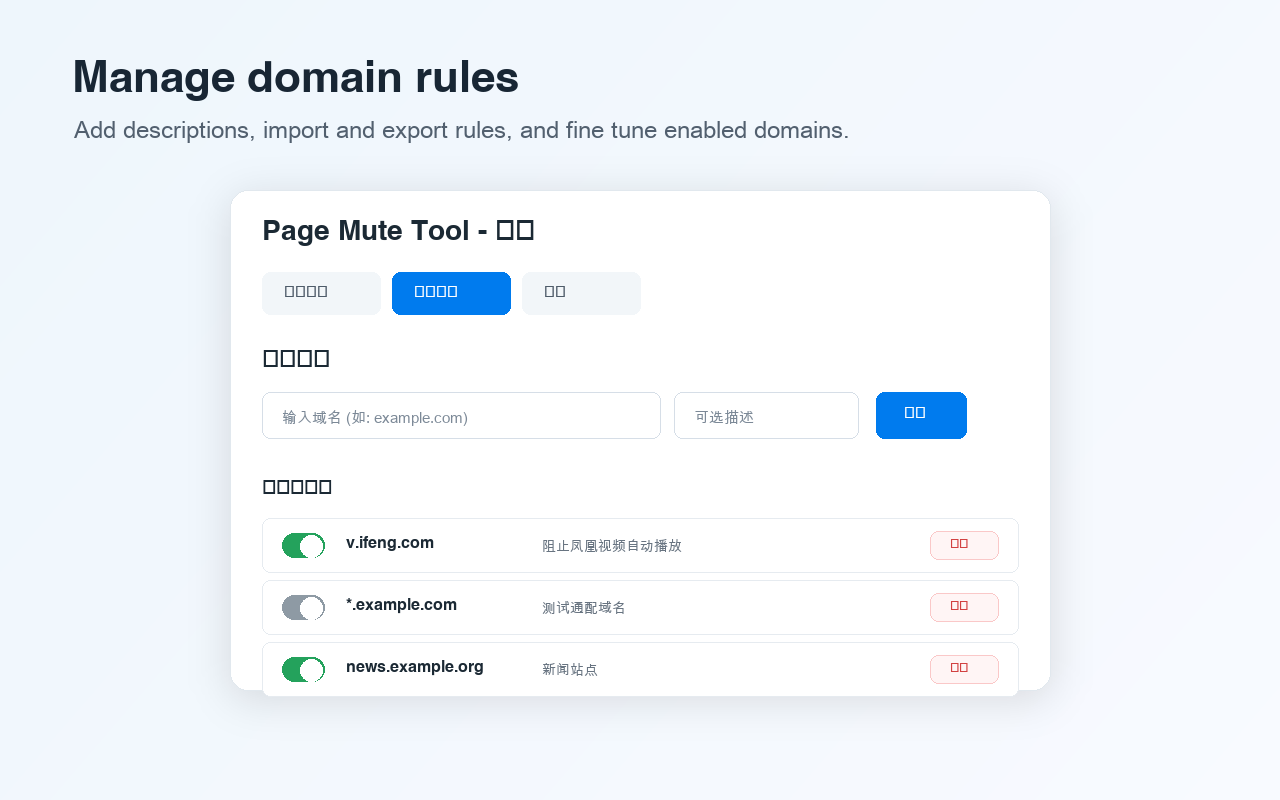
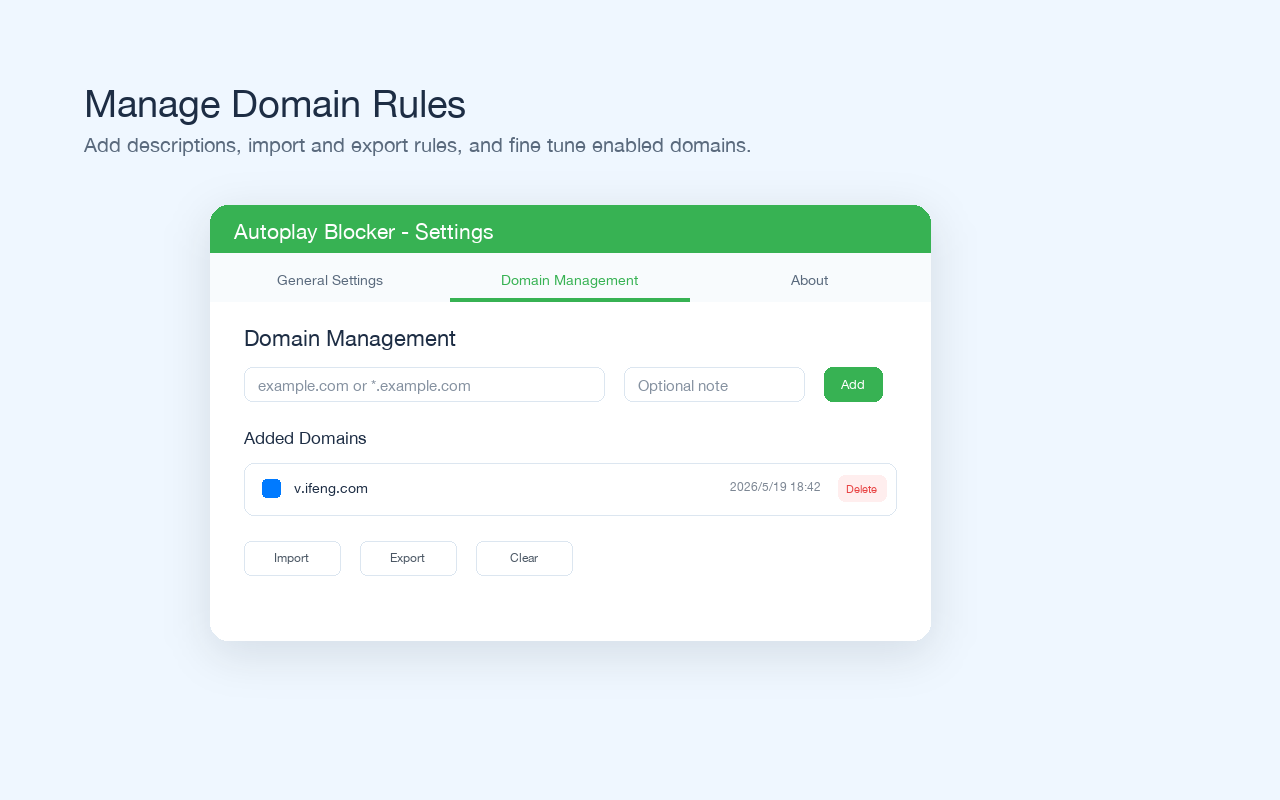
Release v1.0.3 Autoplay Blocker rename

diff --git a/i18n.js b/i18n.js
@@ -136,9 +136,9 @@ class I18n {
 
 I18n.prototype.fallbackMessages = {
   zh_CN: {
-    extensionName: { message: '网页静音工具' },
+    extensionName: { message: '网站自动播放拦截器' },
     extensionDescription: { message: '阻止指定域名网页中的媒体自动播放，强制用户手动点击播放' },
-    popupTitle: { message: '网页静音工具' },
+    popupTitle: { message: '网站自动播放拦截器' },
     currentDomain: { message: '当前域名' },
     quickAddButton: { message: '一键添加当前域名' },
     checking: { message: '检查中...' },
@@ -176,7 +176,7 @@ I18n.prototype.fallbackMessages = {
     successImportData: { message: '数据导入成功' },
     errorImportFailed: { message: '导入失败' },
     errorUnknownMessageType: { message: '未知消息类型' },
-    optionsTitle: { message: '网页静音工具 - 设置' },
+    optionsTitle: { message: '网站自动播放拦截器 - 设置' },
     generalSettings: { message: '常规设置' },
     domainManagement: { message: '域名管理' },
     about: { message: '关于' },
@@ -196,6 +196,8 @@ I18n.prototype.fallbackMessages = {
     descriptionLabel: { message: '描述：' },
     license: { message: '许可证：' },
     support: { message: '支持：' },
+    feedbackTitle: { message: '提交建议说明：' },
+    feedbackDescription: { message: '如有任何建议反馈，可联系作者：' },
     changelog: { message: '更新日志：' },
     initialVersion: { message: '初始版本' },
     successSaveSettings: { message: '设置已保存' },
@@ -206,9 +208,9 @@ I18n.prototype.fallbackMessages = {
     successExportData: { message: '数据已导出' }
   },
   en: {
-    extensionName: { message: 'Page Mute Tool' },
+    extensionName: { message: 'Autoplay Blocker' },
     extensionDescription: { message: 'Block media autoplay on specified domains, forcing manual play' },
-    popupTitle: { message: 'Page Mute Tool' },
+    popupTitle: { message: 'Autoplay Blocker' },
     currentDomain: { message: 'Current Domain' },
     quickAddButton: { message: 'Add Current Domain' },
     checking: { message: 'Checking...' },
@@ -246,7 +248,7 @@ I18n.prototype.fallbackMessages = {
     successImportData: { message: 'Data imported successfully' },
     errorImportFailed: { message: 'Import failed' },
     errorUnknownMessageType: { message: 'Unknown message type' },
-    optionsTitle: { message: 'Page Mute Tool - Settings' },
+    optionsTitle: { message: 'Autoplay Blocker - Settings' },
     generalSettings: { message: 'General Settings' },
     domainManagement: { message: 'Domain Management' },
     about: { message: 'About' },
@@ -266,6 +268,8 @@ I18n.prototype.fallbackMessages = {
     descriptionLabel: { message: 'Description: ' },
     license: { message: 'License: ' },
     support: { message: 'Support: ' },
+    feedbackTitle: { message: 'Feedback: ' },
+    feedbackDescription: { message: 'If you have any suggestions or feedback, contact the author: ' },
     changelog: { message: 'Changelog: ' },
     initialVersion: { message: 'Initial release' },
     successSaveSettings: { message: 'Settings saved' },

diff --git a/options.html b/options.html
@@ -3,13 +3,13 @@
 <head>
   <meta charset="UTF-8">
   <meta name="viewport" content="width=device-width, initial-scale=1.0">
-  <title data-i18n="optionsTitle">Page Mute Tool - Settings</title>
+  <title data-i18n="optionsTitle">Autoplay Blocker - Settings</title>
   <link rel="stylesheet" href="options.css">
 </head>
 <body>
   <div class="options-container">
     <header class="options-header">
-      <h1 data-i18n="optionsTitle">Page Mute Tool - 设置</h1>
+      <h1 data-i18n="optionsTitle">网站自动播放拦截器 - 设置</h1>
     </header>
 
     <nav class="options-nav">
@@ -70,7 +70,7 @@
         <h2 data-i18n="about">关于</h2>
         <div class="about-content">
           <div class="about-item">
-            <strong data-i18n="version">版本：</strong> 1.0.0
+            <strong data-i18n="version">版本：</strong> 1.0.3
           </div>
           <div class="about-item">
             <strong data-i18n="author">作者：</strong> Page Mute Team
@@ -84,9 +84,14 @@
           <div class="about-item">
             <strong data-i18n="support">支持：</strong> Chrome 88+
           </div>
+          <div class="about-item feedback-item">
+            <strong data-i18n="feedbackTitle">提交建议说明：</strong>
+            <p><span data-i18n="feedbackDescription">如有任何建议反馈，可联系作者：</span> <a href="mailto:kscj.e@live.com">kscj.e@live.com</a></p>
+          </div>
           <div class="about-item">
             <strong data-i18n="changelog">更新日志：</strong>
             <ul>
+              <li>v1.0.3 - Renamed extension for Chrome Web Store release</li>
               <li>v1.0.0 - <span data-i18n="initialVersion">初始版本</span></li>
             </ul>
           </div>

diff --git a/popup.html b/popup.html
@@ -3,13 +3,13 @@
 <head>
   <meta charset="UTF-8">
   <meta name="viewport" content="width=device-width, initial-scale=1.0">
-  <title data-i18n="popupTitle">Page Mute Tool</title>
+  <title data-i18n="popupTitle">Autoplay Blocker</title>
   <link rel="stylesheet" href="popup.css">
 </head>
 <body>
   <div class="popup-container">
     <header class="popup-header">
-      <h1 data-i18n="popupTitle">Page Mute Tool</h1>
+      <h1 data-i18n="popupTitle">Autoplay Blocker</h1>
       <button id="settings-btn" class="icon-btn">⚙</button>
     </header>
 

diff --git a/options.css b/options.css
@@ -327,6 +327,21 @@ body {
   font-size: 14px;
 }
 
+.feedback-item p {
+  margin-top: 6px;
+  color: #666;
+  word-break: break-word;
+}
+
+.feedback-item a {
+  color: #4CAF50;
+  text-decoration: none;
+}
+
+.feedback-item a:hover {
+  text-decoration: underline;
+}
+
 .about-item strong {
   color: #333;
 }

diff --git a/background.js b/background.js
@@ -51,7 +51,7 @@ async function initBackground() {
   await ensureInitialized();
   await storageManager.resetSessionStats();
   await refreshAllActionIcons();
-  console.log('Page Mute Tool initialized');
+  console.log('Autoplay Blocker initialized');
 }
 
 chrome.runtime.onInstalled.addListener(() => {

diff --git a/store-assets/listing-draft-en.md b/store-assets/listing-draft-en.md
@@ -3,13 +3,13 @@
 ## Basic Information
 
 Name:
-Page Mute Tool
+Autoplay Blocker
 
 Short description:
 Block media autoplay by domain and keep audio and video playback under your control.
 
 Detailed description:
-Page Mute Tool helps you block unwanted media autoplay on websites you choose. You can quickly add the current domain from the toolbar popup, or manage all domain rules from the settings page. The extension keeps audio and video quiet before you interact with the page, reducing interruptions caused by automatic playback.
+Autoplay Blocker helps you block unwanted media autoplay on websites you choose. You can quickly add the current domain from the toolbar popup, or manage all domain rules from the settings page. The extension keeps audio and video quiet before you interact with the page, reducing interruptions caused by automatic playback.
 
 Key features:
 - Add the current website domain from the toolbar popup.
@@ -49,7 +49,7 @@ Active tab permission justification:
 ## Assets
 
 Upload package:
-`dist/page-mute-tool-v1.0.2-cws.zip`
+`dist/autoplay-blocker-v1.0.3-cws.zip`
 
 Small promotional tile:
 `store-assets/small-promo-440x280.png`

diff --git a/docs/privacy-policy-zh.md b/docs/privacy-policy-zh.md
@@ -1,8 +1,8 @@
-# Page Mute Tool 隐私政策
+# 网站自动播放拦截器隐私政策
 
 最后更新日期：2026-04-27
 
-Page Mute Tool 是一款 Chrome 扩展，用于阻止用户指定域名上的媒体自动播放。
+网站自动播放拦截器是一款 Chrome 扩展，用于阻止用户指定域名上的媒体自动播放。
 
 ## 插件使用的信息
 
@@ -20,7 +20,7 @@ Page Mute Tool 是一款 Chrome 扩展，用于阻止用户指定域名上的媒
 
 ## 数据共享
 
-Page Mute Tool 不会出售、传输或与第三方共享用户数据。
+网站自动播放拦截器不会出售、传输或与第三方共享用户数据。
 
 插件不使用分析、广告、跟踪功能，也不会连接远程服务器。
 
@@ -30,7 +30,7 @@ Page Mute Tool 不会出售、传输或与第三方共享用户数据。
 
 ## 远程代码
 
-Page Mute Tool 不会加载或执行远程托管代码。
+网站自动播放拦截器不会加载或执行远程托管代码。
 
 ## 联系方式
 

diff --git a/store-assets/privacy-policy-zh.md b/store-assets/privacy-policy-zh.md
@@ -1,8 +1,8 @@
-# Page Mute Tool 隐私政策
+# 网站自动播放拦截器隐私政策
 
 最后更新日期：2026-04-27
 
-Page Mute Tool 是一款 Chrome 扩展，用于阻止用户指定域名上的媒体自动播放。
+网站自动播放拦截器是一款 Chrome 扩展，用于阻止用户指定域名上的媒体自动播放。
 
 ## 插件使用的信息
 
@@ -20,7 +20,7 @@ Page Mute Tool 是一款 Chrome 扩展，用于阻止用户指定域名上的媒
 
 ## 数据共享
 
-Page Mute Tool 不会出售、传输或与第三方共享用户数据。
+网站自动播放拦截器不会出售、传输或与第三方共享用户数据。
 
 插件不使用分析、广告、跟踪功能，也不会连接远程服务器。
 
@@ -30,7 +30,7 @@ Page Mute Tool 不会出售、传输或与第三方共享用户数据。
 
 ## 远程代码
 
-Page Mute Tool 不会加载或执行远程托管代码。
+网站自动播放拦截器不会加载或执行远程托管代码。
 
 ## 联系方式
 

diff --git a/store-assets/listing-draft.md b/store-assets/listing-draft.md
@@ -3,13 +3,13 @@
 ## Basic
 
 Name:
-Page Mute Tool
+Autoplay Blocker
 
 Short description:
 Block media autoplay on selected domains and keep playback under your control.
 
 Detailed description:
-Page Mute Tool helps you prevent unwanted media autoplay on websites you choose. Add the current domain from the toolbar popup, manage domain rules in the options page, and keep audio and video playback quiet until you interact with the page.
+Autoplay Blocker helps you prevent unwanted media autoplay on websites you choose. Add the current domain from the toolbar popup, manage domain rules in the options page, and keep audio and video playback quiet until you interact with the page.
 
 Key features:
 - Add the current website domain from the toolbar popup.
@@ -49,7 +49,7 @@ Active tab permission justification:
 ## Assets
 
 Upload package:
-`dist/page-mute-tool-v1.0.2-cws.zip`
+`dist/autoplay-blocker-v1.0.3-cws.zip`
 
 Small promotional tile:
 `store-assets/small-promo-440x280.png`

diff --git a/docs/privacy-policy-en.md b/docs/privacy-policy-en.md
@@ -1,8 +1,8 @@
-# Privacy Policy for Page Mute Tool
+# Privacy Policy for Autoplay Blocker
 
 Last updated: 2026-04-27
 
-Page Mute Tool is a Chrome extension that blocks media autoplay on domains selected by the user.
+Autoplay Blocker is a Chrome extension that blocks media autoplay on domains selected by the user.
 
 ## Information the Extension Uses
 
@@ -20,7 +20,7 @@ This information is used only to provide the extension's single purpose: blockin
 
 ## Data Sharing
 
-Page Mute Tool does not sell, transmit, or share user data with third parties.
+Autoplay Blocker does not sell, transmit, or share user data with third parties.
 
 The extension does not use analytics, advertising, tracking, or remote servers.
 
@@ -30,7 +30,7 @@ Domain rules and settings are stored with Chrome storage APIs. Block statistics 
 
 ## Remote Code
 
-Page Mute Tool does not load or execute remotely hosted code.
+Autoplay Blocker does not load or execute remotely hosted code.
 
 ## Contact
 

diff --git a/store-assets/privacy-policy-draft.md b/store-assets/privacy-policy-draft.md
@@ -1,8 +1,8 @@
-# Privacy Policy for Page Mute Tool
+# Privacy Policy for Autoplay Blocker
 
 Last updated: 2026-04-27
 
-Page Mute Tool is a Chrome extension that blocks media autoplay on domains selected by the user.
+Autoplay Blocker is a Chrome extension that blocks media autoplay on domains selected by the user.
 
 ## Information the extension uses
 
@@ -20,7 +20,7 @@ This information is used only to provide the extension's single purpose: blockin
 
 ## Data sharing
 
-Page Mute Tool does not sell, transmit, or share user data with third parties.
+Autoplay Blocker does not sell, transmit, or share user data with third parties.
 
 The extension does not use analytics, advertising, tracking, or remote servers.
 
@@ -30,7 +30,7 @@ Domain rules and settings are stored with Chrome storage APIs. Block statistics 
 
 ## Remote code
 
-Page Mute Tool does not load or execute remotely hosted code.
+Autoplay Blocker does not load or execute remotely hosted code.
 
 ## Contact
 
